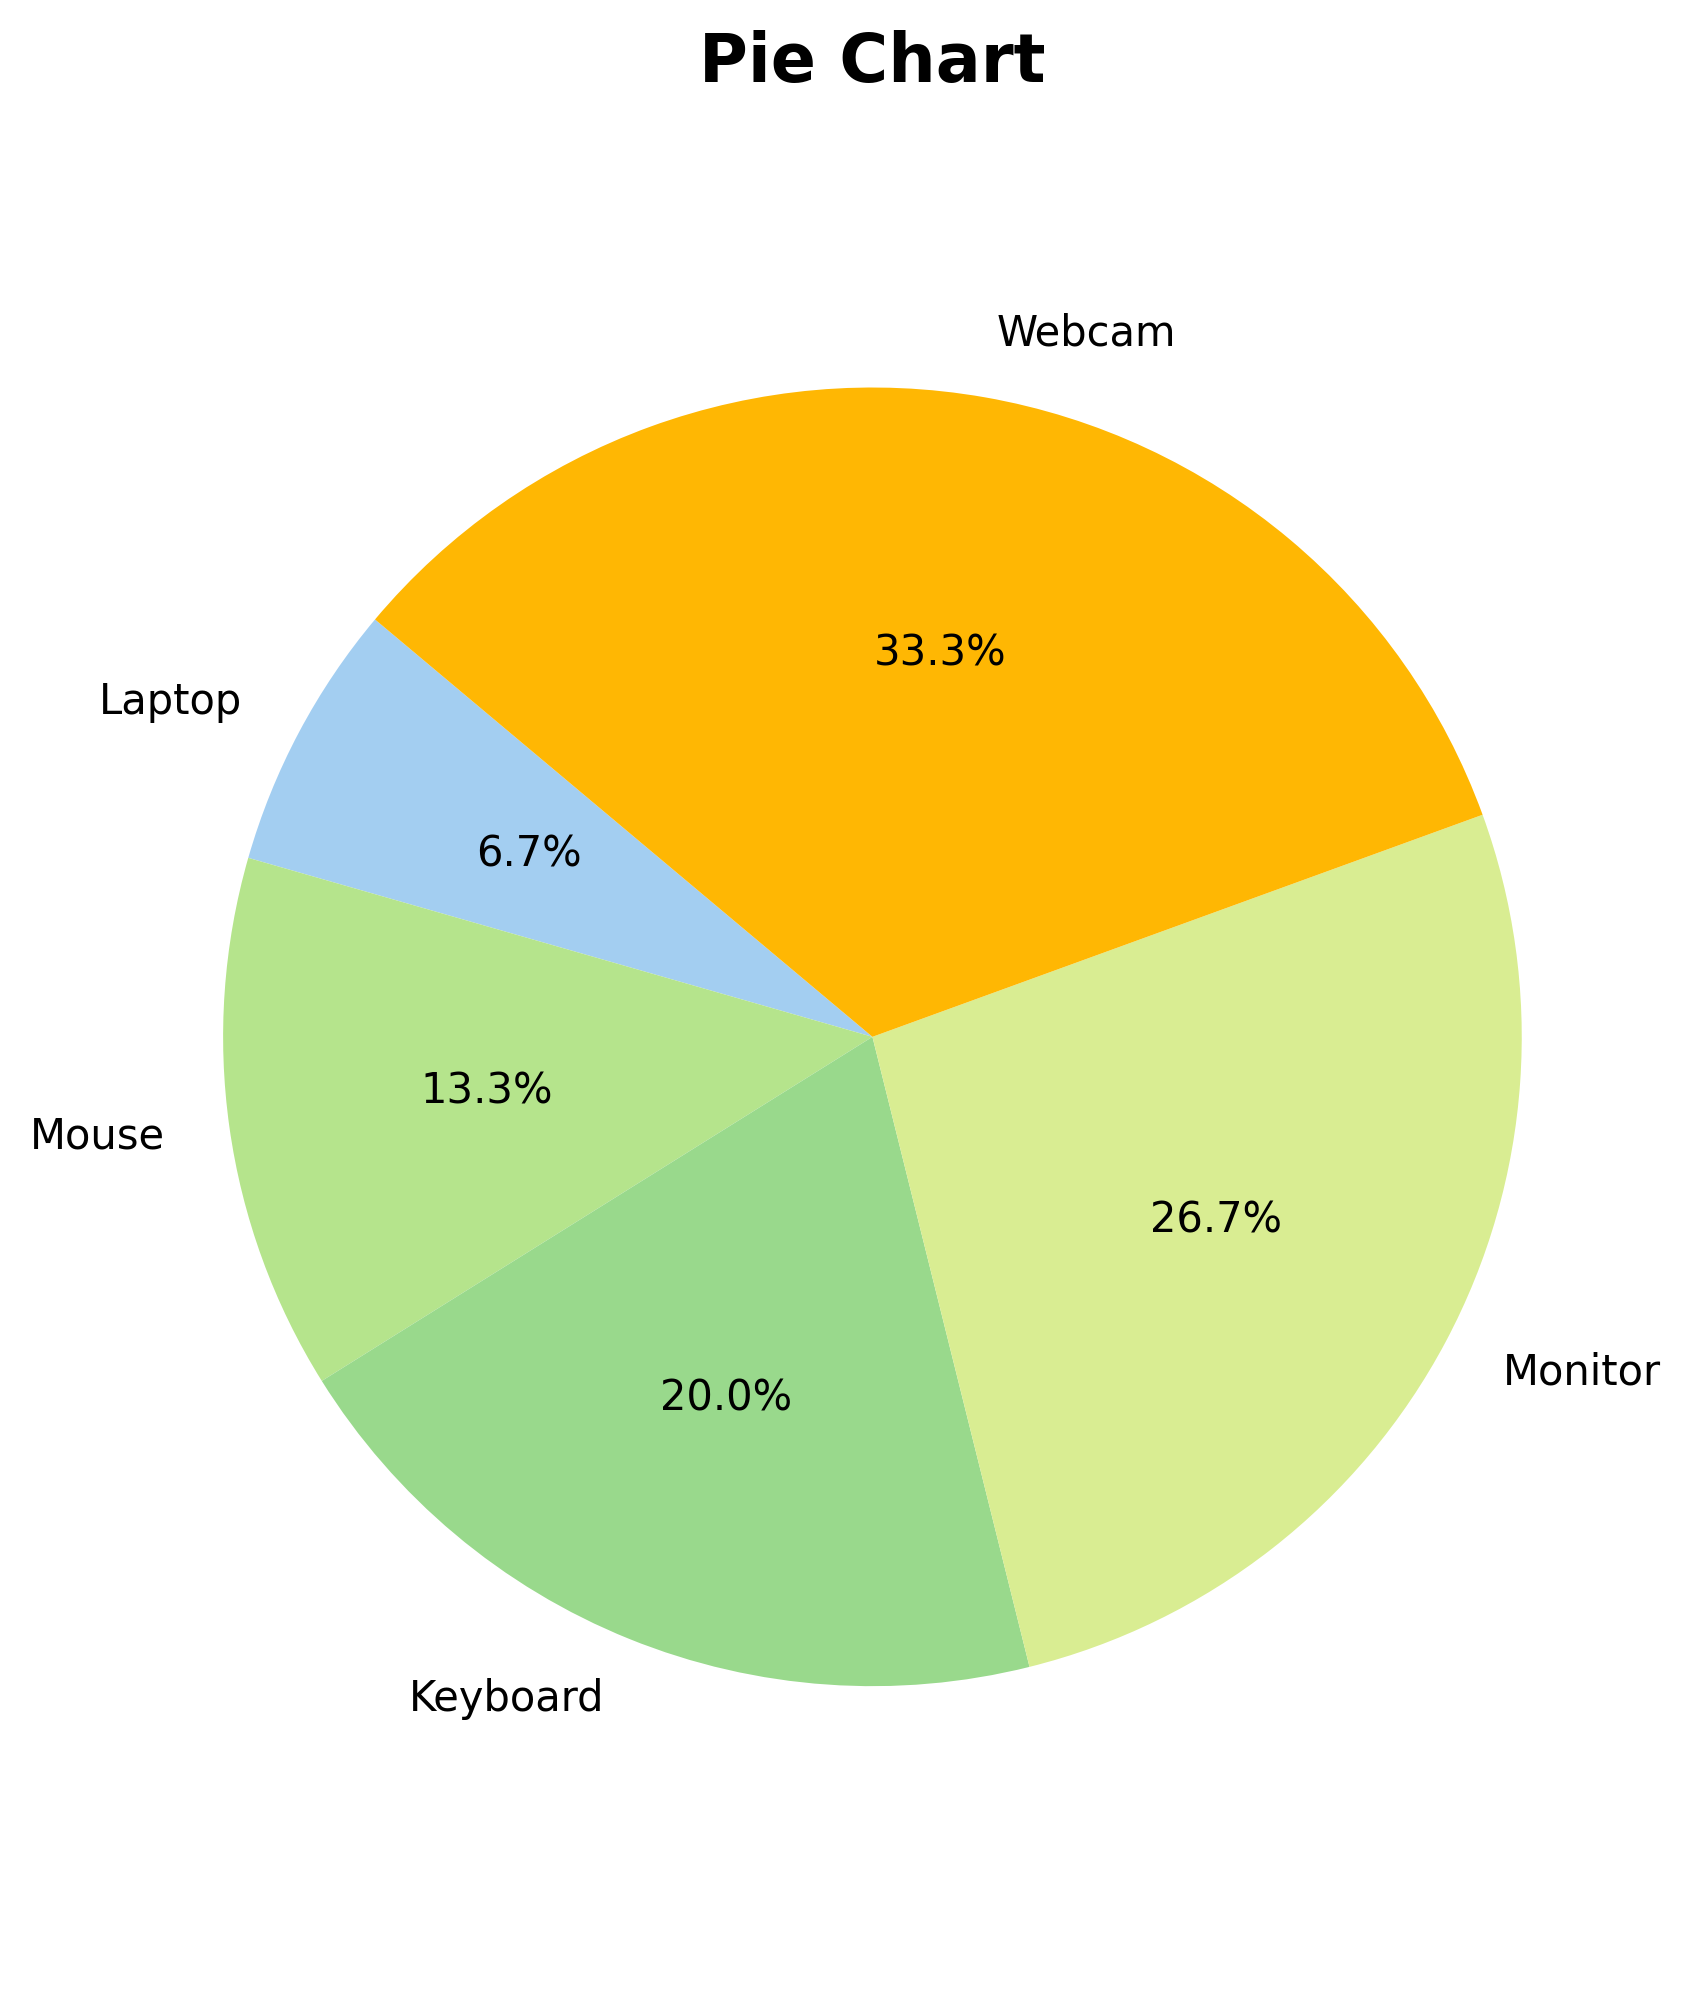
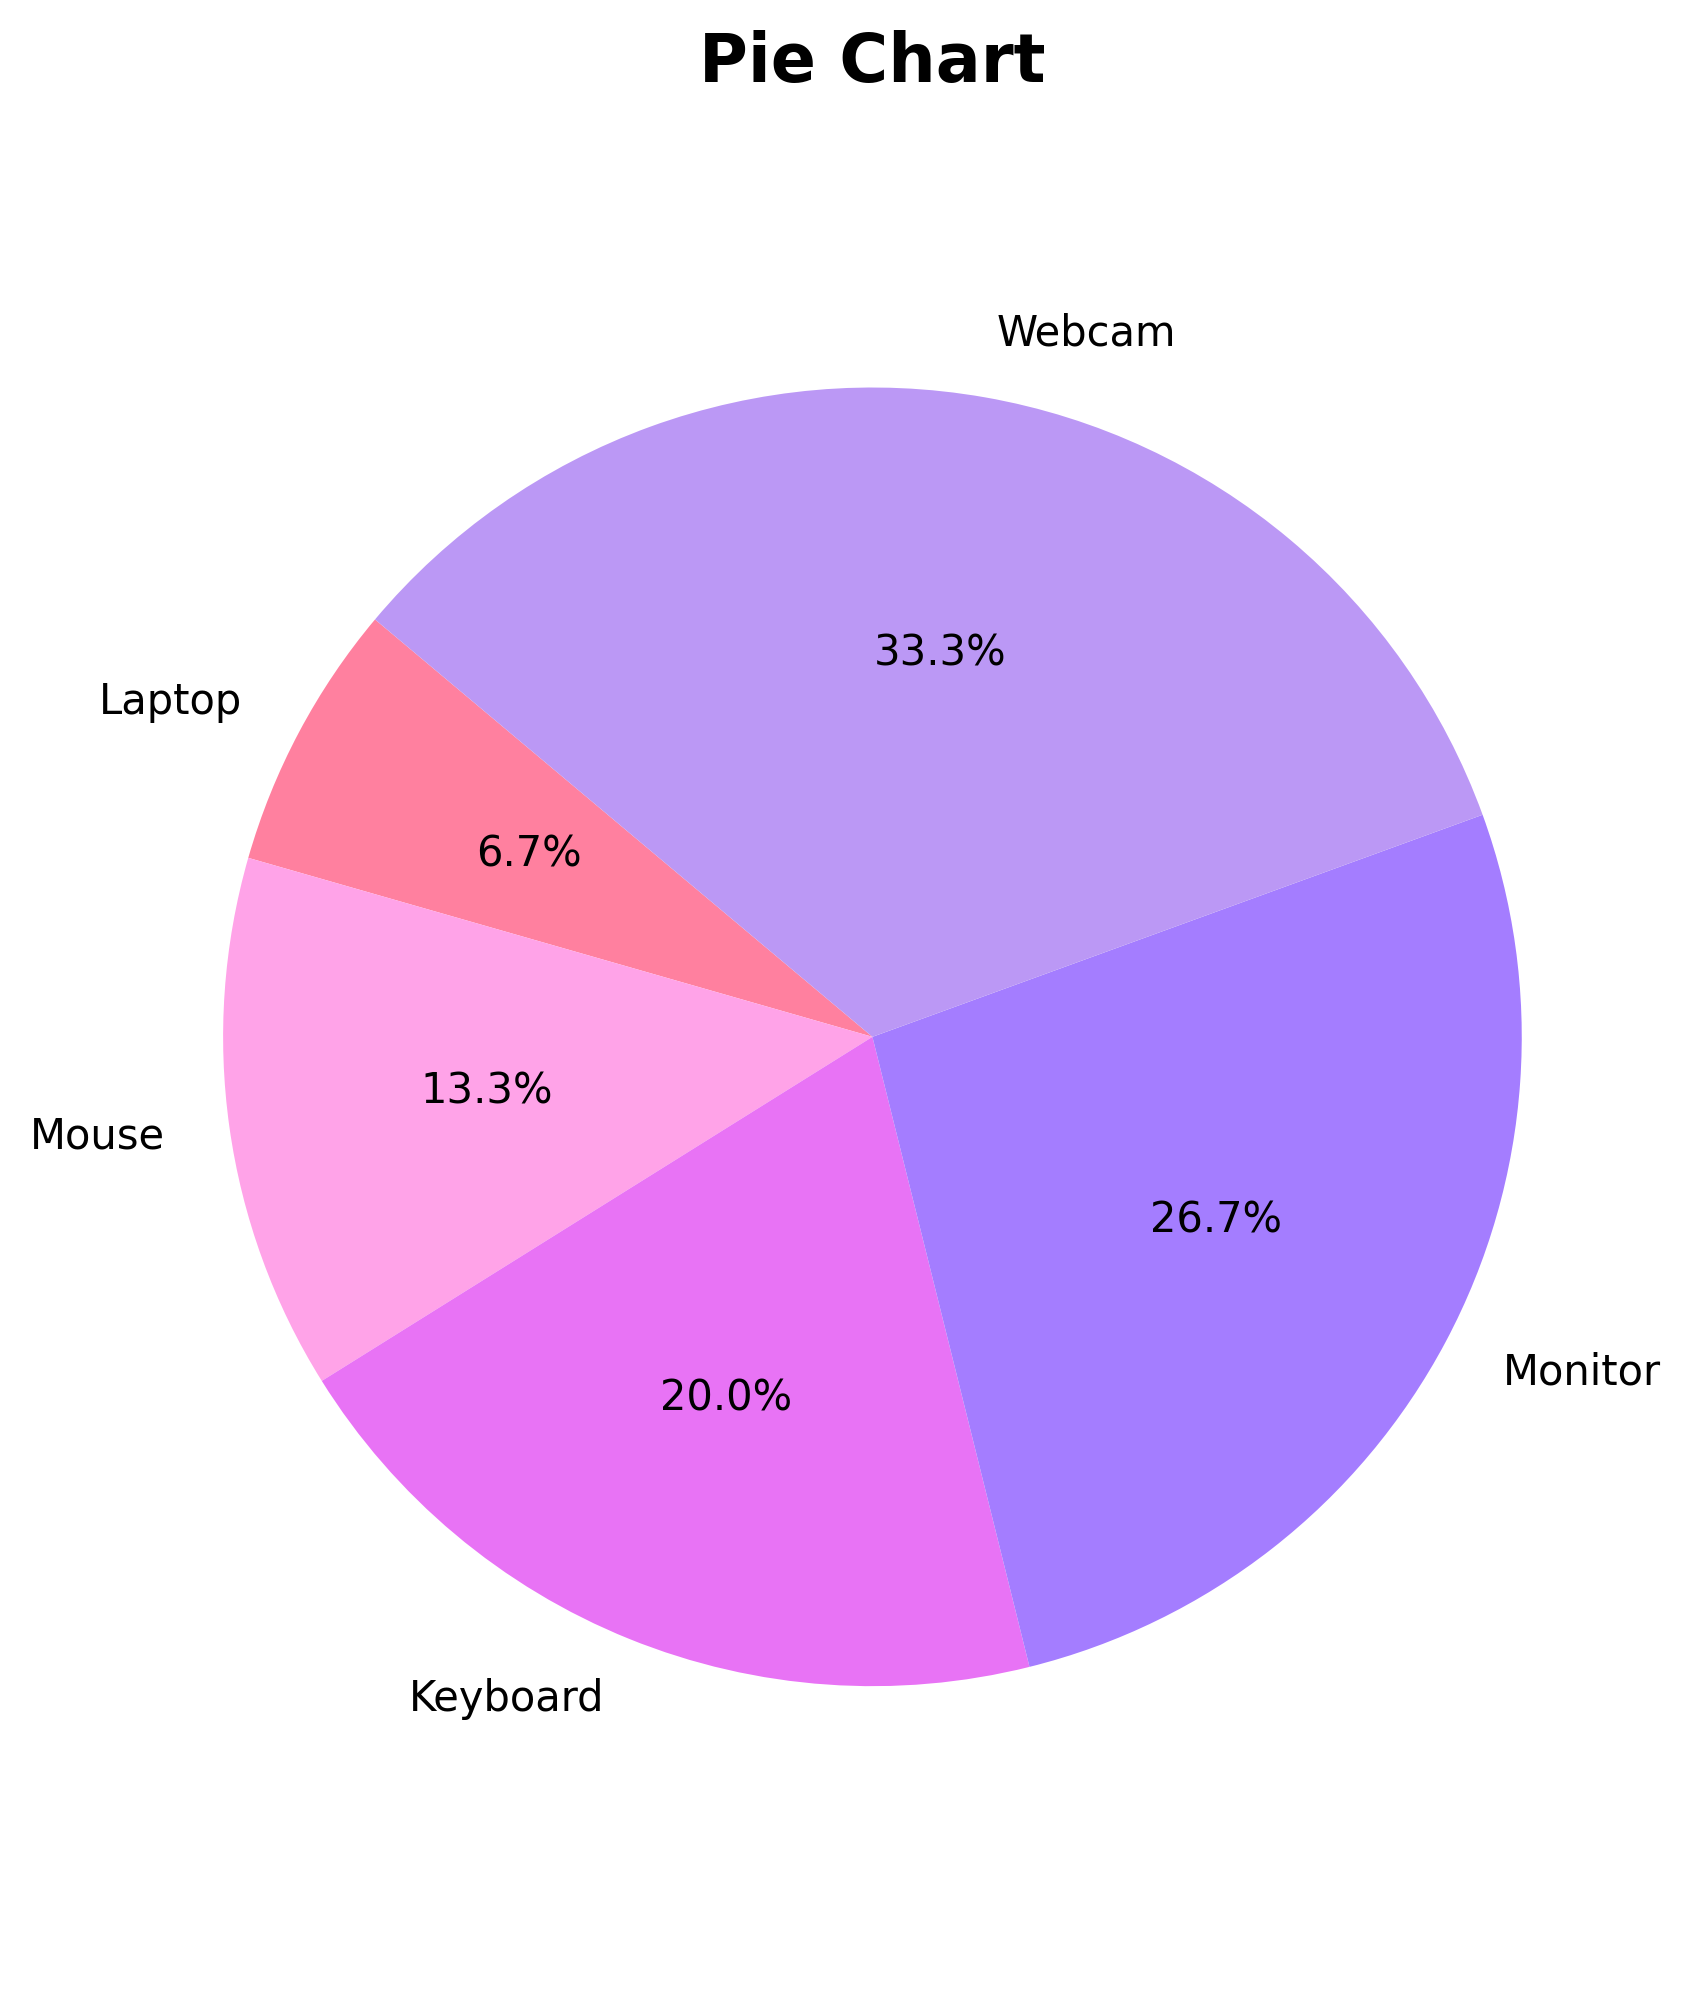
color chart

diff --git a/backend/generate_chart.py b/backend/generate_chart.py
@@ -40,9 +40,9 @@ def plot_graph(
     # Define custom harmonious color palette
     CUSTOM_COLORS = [
         "#5E60CE", "#4895EF", "#4CC9F0", "#A3CEF1",
-        "#B5E48C", "#99D98C", "#D9ED92", "#FFB703",
-        "#FAA307", "#F3722C", "#F94144", "#ff4271",
-        "#ff409f", "#ff85e0", "#d376de", "#bf94e3"
+        "#B5E48C", "#99D98C", "#D9ED92", "#ebca6a",
+        "#f0b854", "#f09462", "#f27c7d", "#ff809f",
+        "#ffa3e8", "#e873f5", "#a47dff", "#bb98f5",
     ]
     start_index = random.randint(0, len(CUSTOM_COLORS) - 1)
     cycled_colors = CUSTOM_COLORS[start_index:] + CUSTOM_COLORS[:start_index]
